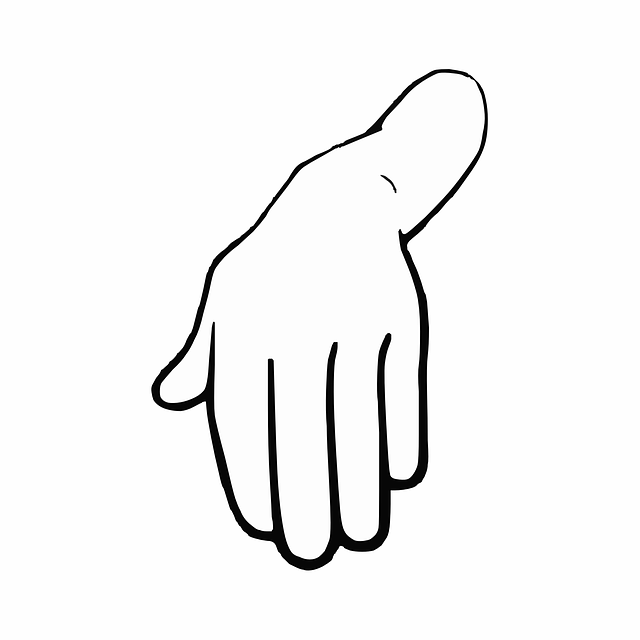
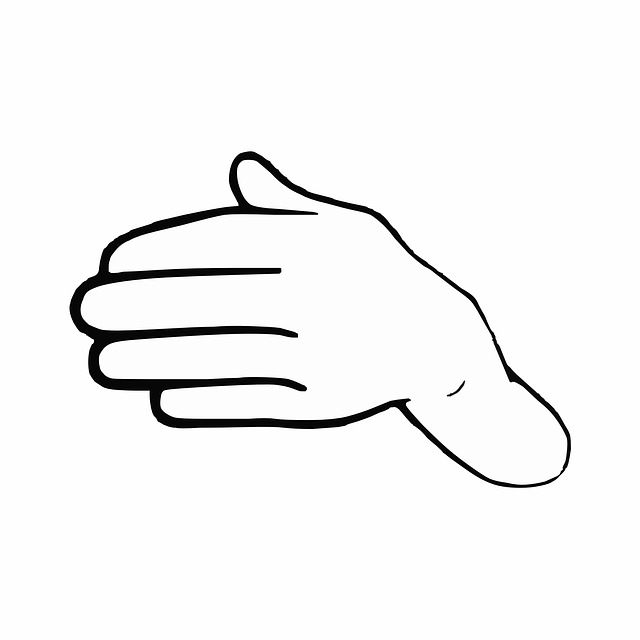
Added coresponding images into player display boxes based on their chosen moves. To app.js. Flipped pictures 90 degress so they face eachother.

diff --git a/assets/app.js b/assets/app.js
@@ -341,6 +341,8 @@ $(document).ready(function () {
                         console.log(uAction);
                         console.log('Other user threw:');
                         console.log(snapshot.val());
+                        userDisplayBox.css('background-image', `url("assets/${uAction}.png"`)
+                        opponentDisplayBox.css('background-image', `url("assets/${snapshot.val()}.png"`)
                         let result = solveGame(uAction, snapshot.val());
                         endGame(result);
                     };
